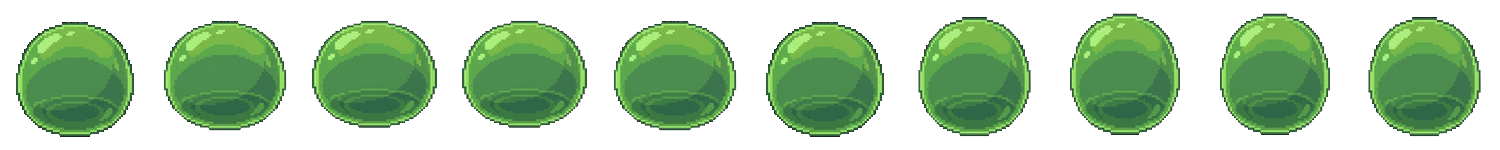
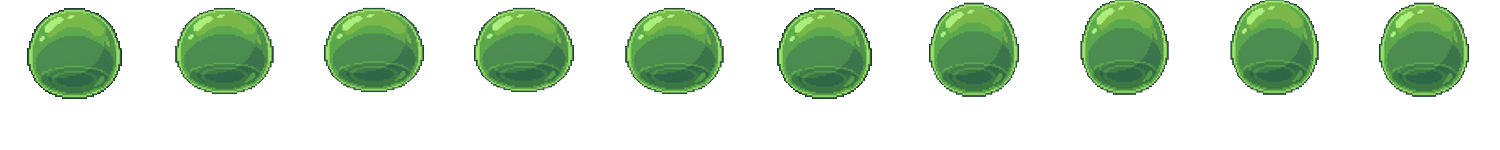
fix: rebuild slime sprites to match wizard frame layout
Root cause: wizard sprites have body in top ~70% of frame with ~30%
bottom padding. The slime filled 93% of its frame, so yAnchor=0.72
placed content below the tile center where floor tiles overdraw it.

Fix: rebuilt PNGs with content in top 68% of frame (32% bottom padding),
matching the wizard's layout exactly. Now uses the same yAnchor=0.72 as
wizard with no special-case depth bias needed. Scale bumped to 0.50 to
compensate for smaller content within the frame.

diff --git a/ethera/src/slime.js b/ethera/src/slime.js
@@ -821,8 +821,10 @@ function drawSlime() {
     const sy = pos.y + cameraY;
     const sizeMult = getSlimeSizeMult();
 
-    // ── Scale: PV sprites are 150px, use PV_SLIME_SCALE (0.65). Legacy were 30px body needing 1.8x ──
-    const usePVSlime = !!_getSlimePVSprite('idle'); // check if PV sprites are available
+    // ── Scale: Match wizard's approach — wizard uses 100px frames at 1.3x = 130px draw size.
+    // Our PV slime uses 150px frames. To get ~50px draw size (slime is small):
+    // 150 * 0.35 = 52px at size 1, growing to ~100px at max size 5.
+    const usePVSlime = !!_getSlimePVSprite('idle');
     const SLIME_BASE_SCALE = usePVSlime ? PV_SLIME_SCALE : 1.8;
     const slimeScale = SLIME_BASE_SCALE * sizeMult.scale;
 
@@ -895,13 +897,9 @@ function drawSlime() {
     // Snap all screen positions to whole pixels — prevents subpixel jitter
     const pxSx = Math.round(sx);
     const pxSy = Math.round(sy);
-    // PV sprites: anchor at bottom (1.0) so sprite draws entirely above the tile
-    // center point (sy).  Floor tiles at the next isometric depth start right at
-    // sy, so any sprite pixels below sy get overdrawn by later floor tiles.
-    // Using 1.0 keeps the slime fully above that overlap zone.
-    // Legacy sprites: body is small inside frame, needs 0.72 offset.
-    const yAnchor = pvData ? 1.0 : 0.72;
-    const drawY = Math.round(pxSy - drawH * yAnchor - bounceOffset - jumpOffset);
+    // Use same 0.72 anchor as the wizard — sprites are rebuilt with matching
+    // content placement (body in top ~70% of frame, ~30% bottom padding).
+    const drawY = Math.round(pxSy - drawH * 0.72 - bounceOffset - jumpOffset);
 
     // ── Ground contact shadow (simple ellipse, no sprite duplication) ──
     const shadowScale = Math.max(0.5, 1.0 - totalAir * 0.015);

diff --git a/ethera/src/config.js b/ethera/src/config.js
@@ -110,7 +110,7 @@ const PV_WIZARD_FH = 200;
 const PV_WIZARD_SCALE = 0.55;   // 160*0.55 ≈ 88px wide — close to old 100*1.3=130 but taller/leaner
 const PV_SLIME_FW = 150;
 const PV_SLIME_FH = 150;
-const PV_SLIME_SCALE = 0.35;    // 150*0.35 ≈ 52px — slime fills its frame, so scale much lower than wizard
+const PV_SLIME_SCALE = 0.50;    // 150*0.50 = 75px frame, content is ~65% = ~49px body — matches wizard sizing
 const PV_LICH_FW = 160;         // necromancer creativekind sheet
 const PV_LICH_FH = 128;
 const PV_LICH_SCALE = 1.50;     // small pixel-art character needs high scale to match wizard

diff --git a/build_slime_sprites.py b/build_slime_sprites.py
@@ -72,19 +72,20 @@ def extract_slime_from_cell(img, row, col, cell_w, cell_h):
     # Crop to bounding box
     cropped = cell.crop((min_x, min_y, max_x + 1, max_y + 1))
 
-    # Scale to fit within FRAME_W x FRAME_H with some margin
+    # Scale to fit within FRAME_W x FRAME_H with margin
     blob_w, blob_h = cropped.size
-    target_size = int(FRAME_W * 0.82)  # leave margin for squash/stretch
+    target_size = int(FRAME_W * 0.65)  # smaller — leave 30%+ bottom padding like wizard sprites
     scale = min(target_size / blob_w, target_size / blob_h)
     new_w = max(1, int(blob_w * scale))
     new_h = max(1, int(blob_h * scale))
     scaled = cropped.resize((new_w, new_h), Image.LANCZOS)
 
-    # Center on a FRAME_W x FRAME_H transparent canvas
-    # Position slightly lower to leave room for bounce animation
+    # Position slime in upper portion of frame with ~30% bottom padding.
+    # This matches how wizard sprites have their body in the top ~70% of the frame,
+    # which makes yAnchor=0.72 work correctly for isometric depth sorting.
     canvas = Image.new('RGBA', (FRAME_W, FRAME_H), (0, 0, 0, 0))
     offset_x = (FRAME_W - new_w) // 2
-    offset_y = (FRAME_H - new_h) // 2 + 5  # slight downward offset
+    offset_y = max(0, int(FRAME_H * 0.05))  # pin near top with small top margin
 
     # Convert scaled image to RGBA and strip black background
     scaled_rgba = scaled.convert('RGBA')
